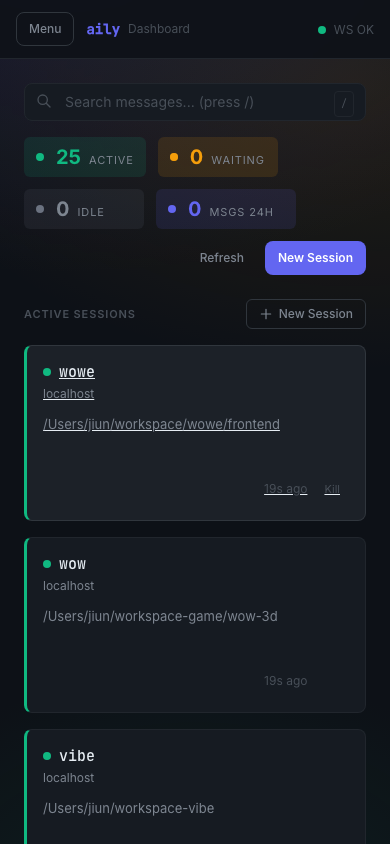
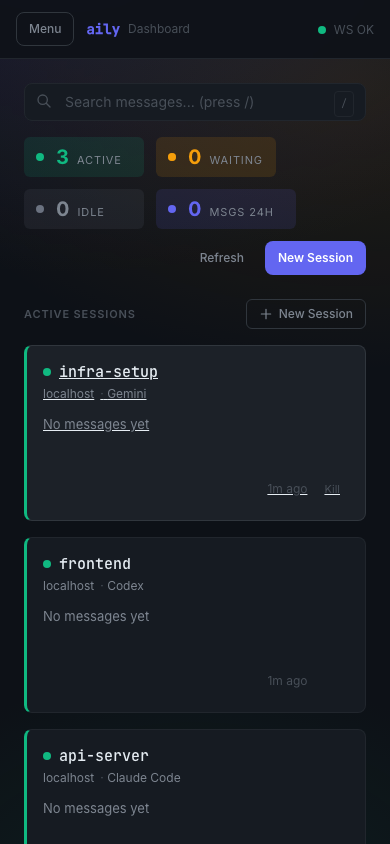
docs: replace with masked demo GIF and screenshots
- Record actual dashboard walkthrough as GIF (384KB, 59 frames)
- Recapture all screenshots with sanitized demo data
- No personal project names or sensitive info visible
- Demo flow: login → sessions → detail → send message → back

diff --git a/README.ko.md b/README.ko.md
@@ -141,9 +141,9 @@ Discord/Slack에서 직접 세션을 관리할 수도 있습니다: `!new <name>
 
 <div align="center">
 
-<img src="docs/demo.svg" alt="aily 데모 — tmux ↔ Discord 브릿지" width="800"/>
+<img src="docs/demo.gif" alt="aily 대시보드 데모" width="800"/>
 
-*Discord에서 세션 생성 → tmux에서 에이전트 실행 → 결과가 스레드로 → 어디서든 답장*
+*로그인 → 세션 목록 → 세션 상세 → 메시지 전송 — 모두 브라우저에서*
 
 </div>
 

diff --git a/README.md b/README.md
@@ -141,9 +141,9 @@ Unlike one-way notification tools, aily provides a **full session bridge** — m
 
 <div align="center">
 
-<img src="docs/demo.svg" alt="aily demo — tmux ↔ Discord bridge" width="800"/>
+<img src="docs/demo.gif" alt="aily dashboard demo" width="800"/>
 
-*Create a session from Discord → Agent runs in tmux → Results flow back → Reply from anywhere*
+*Login → View sessions → Open session detail → Send a message — all from the browser*
 
 </div>
 
